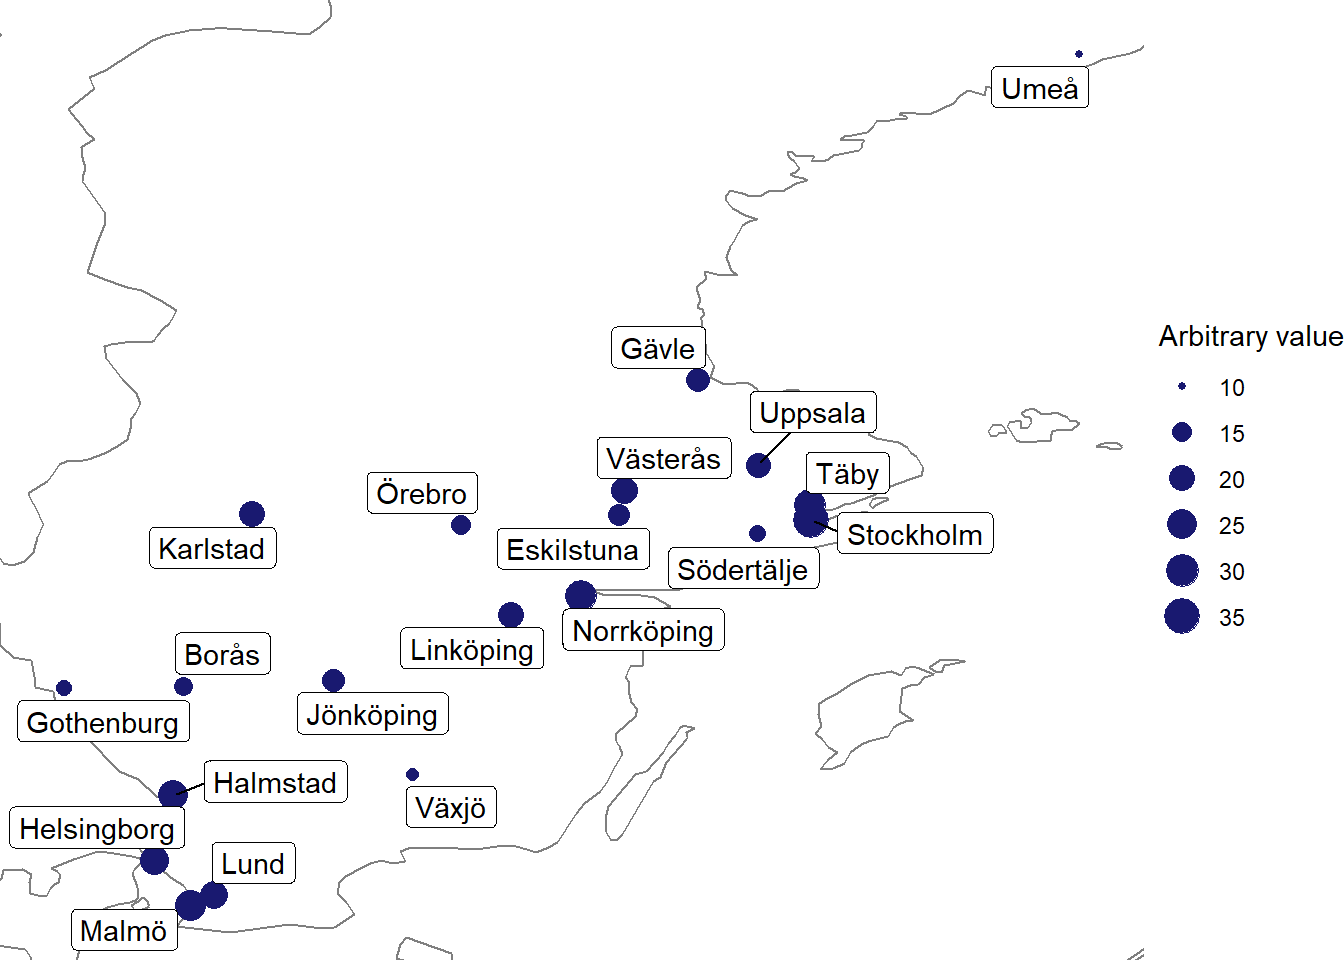
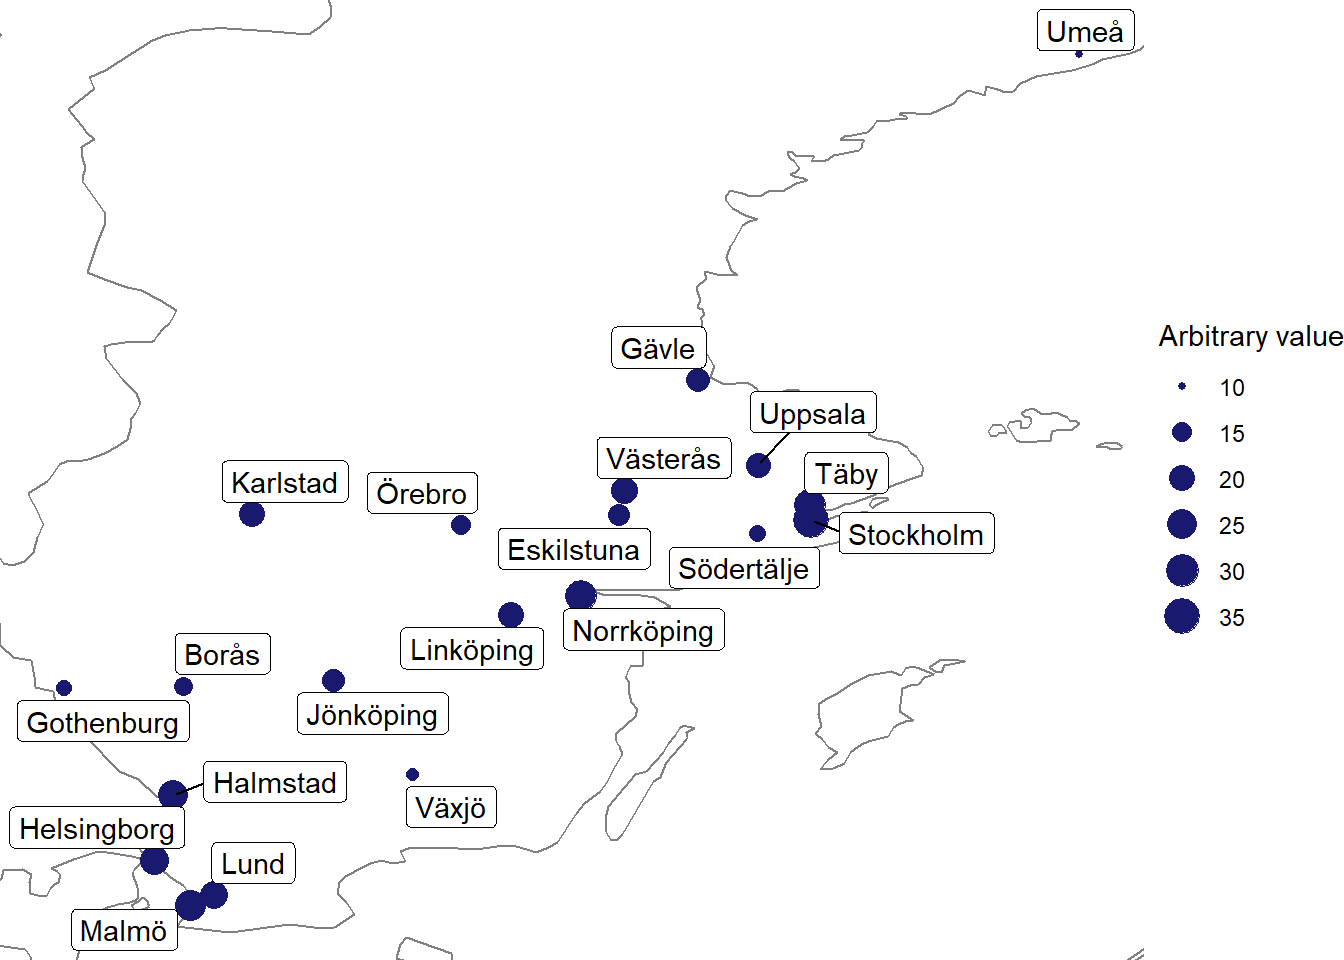
add geocoding title

diff --git a/docs/posts/2023-10-02-geocoding/geocoding.html b/docs/posts/2023-10-02-geocoding/geocoding.html
@@ -7,7 +7,7 @@
 <meta name="viewport" content="width=device-width, initial-scale=1.0, user-scalable=yes">
 
 
-<title>Interlude One - Geocoding</title>
+<title>Interlude One - Geocoding: two ways</title>
 <style>
 code{white-space: pre-wrap;}
 span.smallcaps{font-variant: small-caps;}
@@ -234,7 +234,7 @@ pre > code.sourceCode > span > a:first-child::before { text-decoration: underlin
 
 <header id="title-block-header" class="quarto-title-block default">
 <div class="quarto-title">
-<h1 class="title">Geocoding</h1>
+<h1 class="title">Geocoding: two ways</h1>
 </div>
 
 
@@ -261,7 +261,7 @@ pre > code.sourceCode > span > a:first-child::before { text-decoration: underlin
 <div class="quarto-figure quarto-figure-center">
 <figure class="figure">
 <p><img src="preview.png" class="img-fluid figure-img" style="width:80.0%"></p>
-<figcaption class="figure-caption">A beautiful oil painting of a mosaic of a map or a city plan in the unique texture and color palette of Gustav Caillebotte, featuring street and locat</figcaption>
+<figcaption class="figure-caption">A beautiful oil painting of a mosaic of a map or a city plan in the unique texture and color palette of Gustav Caillebotte</figcaption>
 </figure>
 </div>
 </div>

diff --git a/docs/index.html b/docs/index.html
@@ -217,14 +217,14 @@ ul.task-list li input[type="checkbox"] {
 
 <div class="quarto-listing quarto-listing-container-default" id="listing-listing">
 <div class="list quarto-listing-default">
-<div class="quarto-post image-right" data-index="0" data-listing-file-modified-sort="1696249761991" data-listing-reading-time-sort="10">
+<div class="quarto-post image-right" data-index="0" data-listing-file-modified-sort="1696249939056" data-listing-reading-time-sort="10">
 <div class="thumbnail">
 <p><a href="./posts/2023-10-02-geocoding/geocoding.html"> <p class="card-img-top"><img src="posts\2023-10-02-geocoding\preview.png"  class="thumbnail-image card-img"/></p> </a></p>
 </div>
 <div class="body">
 <a href="./posts/2023-10-02-geocoding/geocoding.html">
 <h3 class="no-anchor listing-title">
-Geocoding
+Geocoding: two ways
 </h3>
 <div class="listing-subtitle">
 